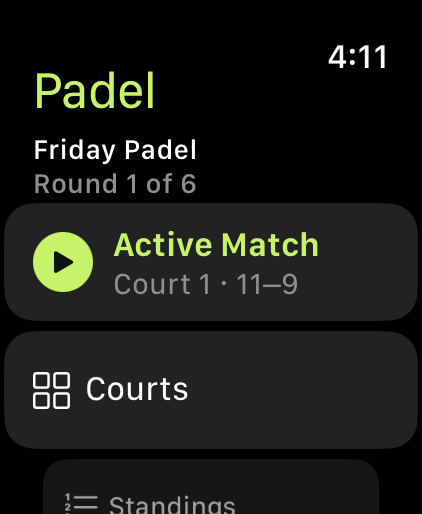
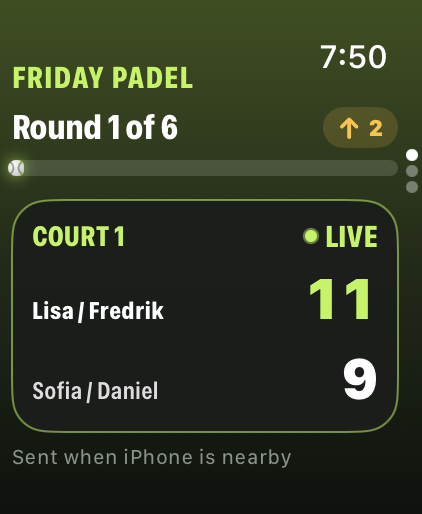
Docs: redesigned watch and Live Activity screenshots

diff --git a/PROJECT_STATUS.md b/PROJECT_STATUS.md
@@ -34,15 +34,15 @@ Everything else was built in this branch.
 | iPhone UI tests | ✅ | ✅ 8 XCUITests | CI run #28 on an iPhone 16 Pro simulator: 8 passed, 0 failed (journey, games & sets scoring + set entry, Live Activity, validation, accessibility, onboarding, onboarding skip, playoff bracket); journey re-run in dark mode: passed |
 | Onboarding | ✅ | ✅ 2 UI tests | Screenshots of all five pages reviewed (`docs/screenshots/onboarding.png`); Reduce Motion path implemented, not screenshot-tested |
 | Localization (19 languages) | ✅ | ✅ placeholder/plural/line-break checks for 18 translations; catalogs checked up to date | CI run #28: onboarding + playoff UI tests passed in Spanish, Arabic (right-to-left) and Swedish; screenshots reviewed (`docs/screenshots/languages.png`). Other languages build and are checked automatically but were not screenshot-reviewed |
-| Live Activity | ✅ | ✅ starts + updates | Simulator: Dynamic Island shows the live score after leaving the app (`docs/screenshots/sets-and-live-activity.png`) |
+| Live Activity | ✅ | ✅ starts + updates | Simulator: compact and expanded Dynamic Island and Lock Screen, live and decided, captured by `LiveActivityGalleryUITests` and reviewed (`docs/screenshots/live-activity.png`) |
 | Lock Screen +1/undo buttons | ✅ code | ❌ | Builds; tapping them needs a device (not automatable in CI) |
 | iPhone visuals | ✅ | screenshots | Reviewed CI screenshots in light and dark mode (`docs/screenshots/`) |
-| Watch scoring UI | ✅ | screenshot | Apple Watch Ultra 3 (49 mm) simulator screenshot of the scoring screen and home |
+| Watch UI (Night Court redesign: court scoring, callouts, home pager, standings, podium, Always On) | ✅ | screenshots | `watch-screens` workflow: every demo scenario on Apple Watch Ultra 3 (49 mm) and Series 11 (42 mm) simulators, reviewed (`docs/screenshots/watch-redesign.png`, `watch-42mm.png`). Motion, Digital Crown undo and Double Tap need a device |
 | WatchConnectivity on real devices | ✅ code | ❌ | **Not verified** — needs paired hardware (see TESTING.md checklist) |
 | Player statistics across tournaments (leaderboard, player screen, history) | ✅ | ✅ 7 package tests (name matching, wins/podiums, playoff champion, team formats, partners/opponents, sets, withdrawals, empty); 1 UI test (leaderboard → player → tournament) | Linux + macOS CI |
 | Shared tournaments (several phones via iCloud) | ✅ incl. background sync on CloudKit silent push | ✅ 11 package tests (simulated cloud: 3 phones, offline guest, undo, conflicts, Mexicano rounds, leave/stop); push subscriptions and wake-ups not simulated | **Not verified on devices** — needs two iPhones signed in to iCloud and the CloudKit schema deployed (`docs/RELEASE.md`); background push delivery (organiser's phone locked, app not open) is device-only |
 | Spectator board (public live leaderboard page) | ✅ | ✅ 19 package tests (snapshot contents and JSON, old files decode, guest copies, publish/coalesce/stop/delete/offline retry/relaunch with an in-memory public database) | Page rendering checked locally in a headless browser with mocked data (TV and phone widths, finished and removed boards). **Not verified end to end** — needs the `PadelLiveBoard` record type in Production, the CloudKit API token in `docs/live/app.js` and GitHub Pages (`docs/RELEASE.md` §3b) |
-| Complication on a watch face | ✅ code | ❌ | Builds; **not verified** on device (needs signing + App Group) |
+| Complication on a watch face | ✅ code | screenshot of the views | All families drawn in the watch app demo gallery; **not verified** on a face (needs signing + App Group) |
 | Action button via Shortcuts (App Intent) | ✅ code | ❌ | Builds; **not verified** on device |
 | Haptics, Always On dimming | ✅ code | ❌ | Not verifiable in CI |
 | Privacy manifests (iPhone, watch, complication) | ✅ | ✅ `check-release.mjs` | Generated project bundles each one in its own target |

diff --git a/README.md b/README.md
@@ -26,6 +26,10 @@ Apple Watch.
 
 ![Games and sets, set-by-set result entry and the Live Activity in the Dynamic Island](docs/screenshots/sets-and-live-activity.png)
 
+![Apple Watch Ultra: the court-split scoring screen (points, golden point, match point, match won), the finished match, home, standings, podium, Always On and the complications](docs/screenshots/watch-redesign.png)
+
+![Live Activity: Dynamic Island and Lock Screen, live and once the match is won](docs/screenshots/live-activity.png)
+
 ![Animated onboarding](docs/screenshots/onboarding.png)
 
 ![Playoffs: semifinals and the bracket](docs/screenshots/playoffs.png)
